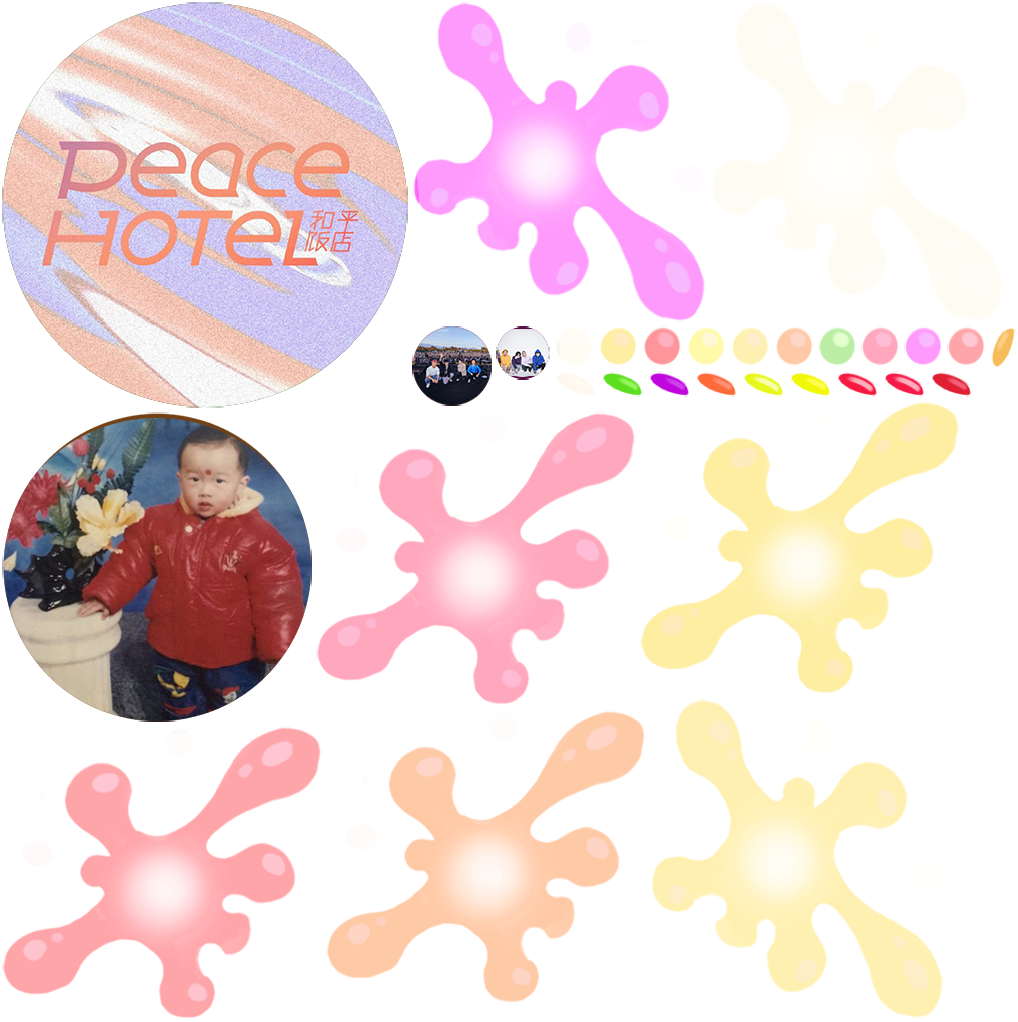
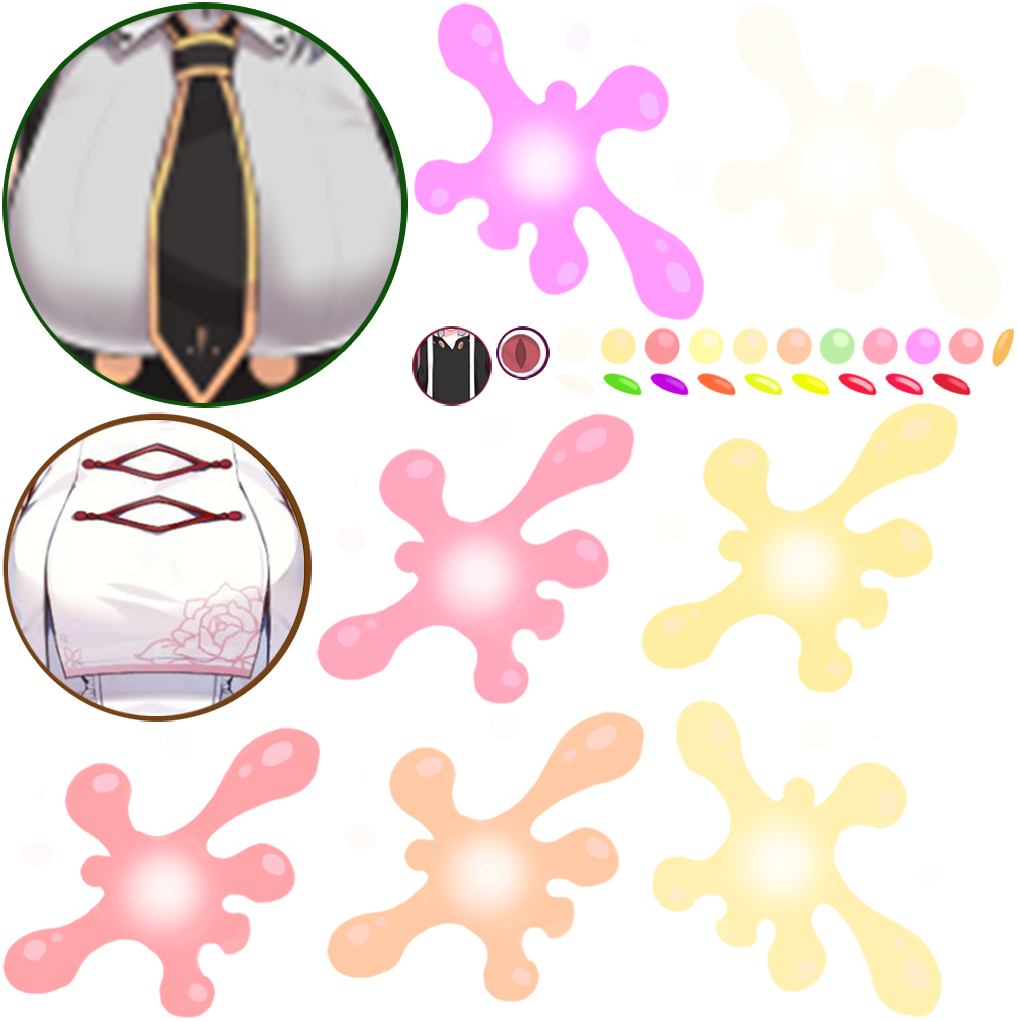
sss

Changed region(s): [[0.0, 0.0, 0.4263, 0.728], [0.3959, 0.3033, 0.5481, 0.3943]]

diff --git a/index.html b/index.html
@@ -4,7 +4,7 @@
 <head>
     <meta charset="utf-8">
 
-    <title>合成大饭店</title>
+    <title>合成大欧派</title>
 
     <!--http://www.html5rocks.com/en/mobile/mobifying/-->
     <meta name="viewport" content="width=device-width,user-scalable=no,initial-scale=1, minimum-scale=1,maximum-scale=1" />
@@ -109,7 +109,7 @@
             //        console.log("window.navigator.language",window.navigator.language);
 
             if (window.navigator.language == "zh-CN" || window.navigator.language == "zh-cn") {
-                document.title = "合成大饭店";
+                document.title = "合成大欧派";
             } 
 
 

diff --git a/README.md b/README.md
@@ -1,0 +1,4 @@
+# 合成大欧派（P家） #
+
+合成大西瓜的P家版本。合成顺序为：暗妃鲁咪蕾->古守血游->真白花音->铃宫铃->椎名菜羽->有栖Mana->乙女音->绯赤艾莉欧->花园Serena->梦乃栞->紫桃爱音。如对合成顺序有异议，请提交申请与我们一同迫害。
+
